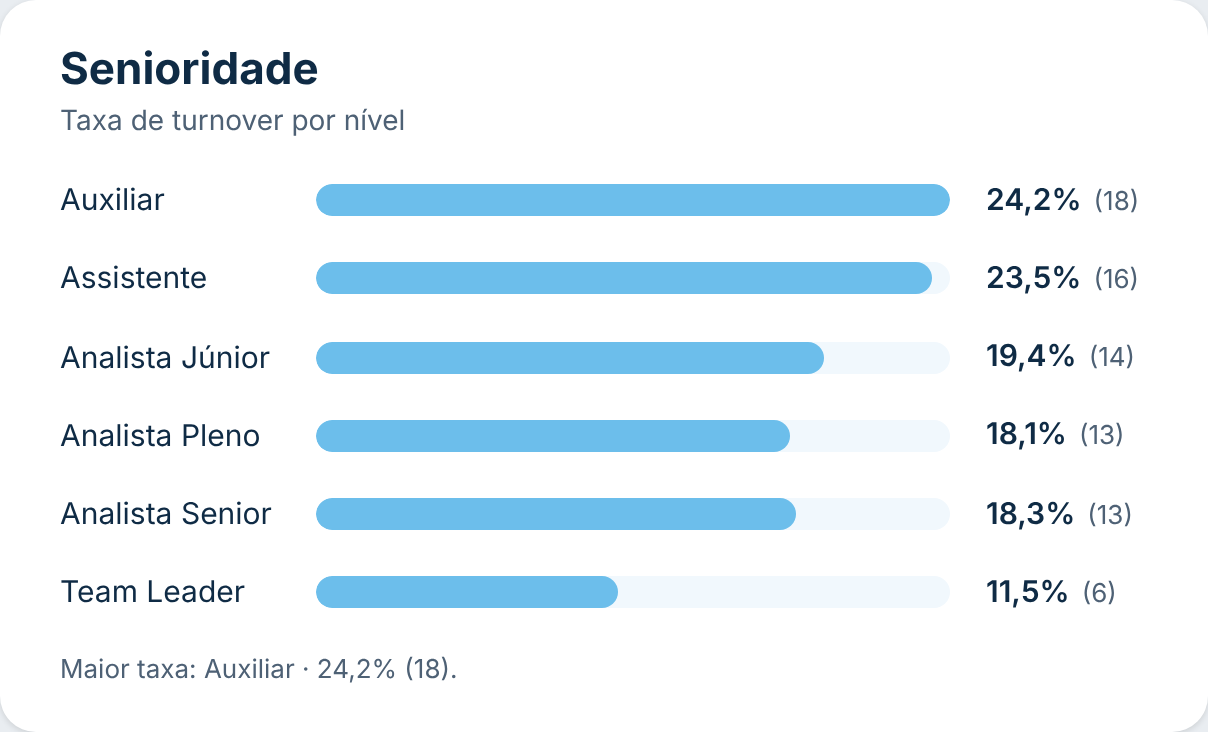
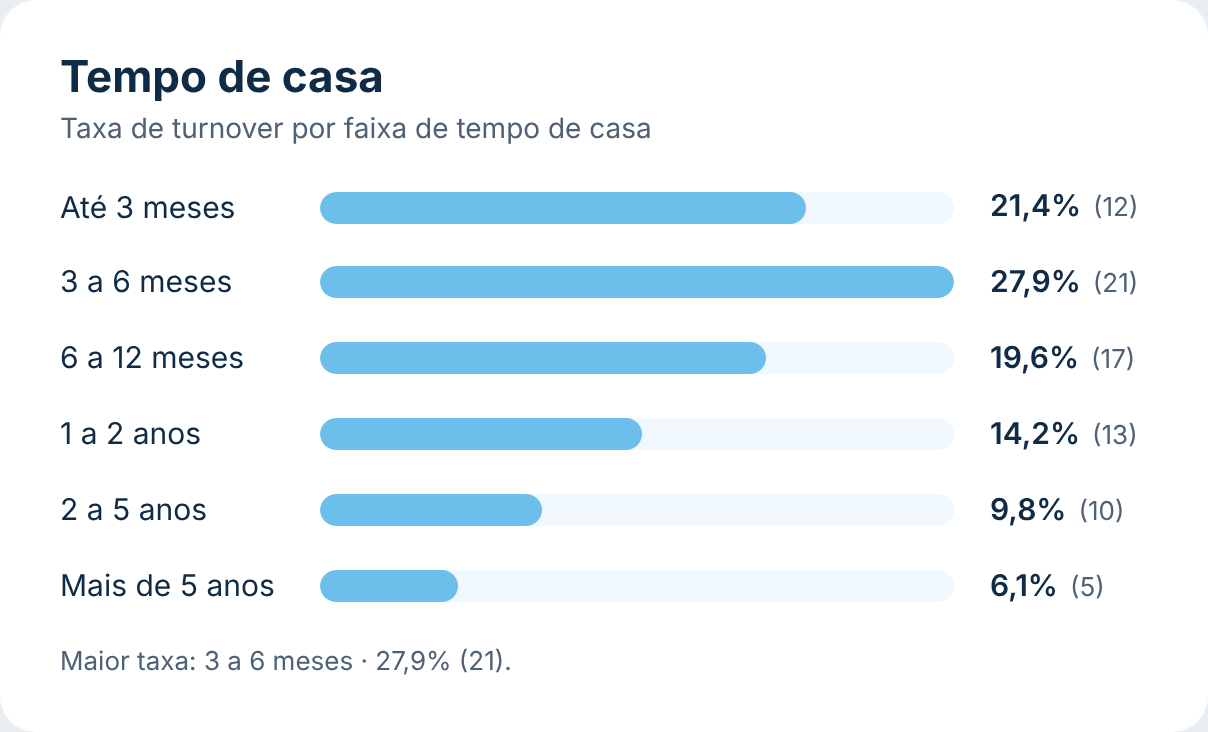
Barras com Insight: troca o exemplo de senioridade por tempo de casa nas imagens
Novas imagens de exemplo (capa, top 3 e fx) com taxa de turnover por
faixa de tempo de casa e números novos; textos do README e do site
atualizados para o novo exemplo.

Claude-Session: https://claude.ai/code/session_013QpUCmtKY2mNhjR5LHkMz1

diff --git a/visuals/barras-ranking/README.md b/visuals/barras-ranking/README.md
@@ -1,8 +1,8 @@
 # Barras com Insight
 
-Gráfico de barras horizontais no estilo de ranking: cada linha tem o **rótulo da categoria**, uma **barra com trilho** e o **valor com um detalhe ao lado** (ex.: `24,2% (18)`). Embaixo aparece uma **frase de insight** automática, como *"Maior taxa: Auxiliar · 24,2% (18)."*. Dá para mostrar só o **top N** e **ordenar por outro campo** (ex.: a ordem dos níveis). Segue o padrão visual do repositório ([DESIGN.md](../../DESIGN.md)).
+Gráfico de barras horizontais no estilo de ranking: cada linha tem o **rótulo da categoria**, uma **barra com trilho** e o **valor com um detalhe ao lado** (ex.: `27,9% (21)`). Embaixo aparece uma **frase de insight** automática, como *"Maior taxa: 3 a 6 meses · 27,9% (21)."*. Dá para mostrar só o **top N** e **ordenar por outro campo** (ex.: a ordem das faixas de tempo de casa). Segue o padrão visual do repositório ([DESIGN.md](../../DESIGN.md)).
 
-| Padrão (ordenado pelo nível) | Top 3 com destaque | Cores por regra (fx) |
+| Padrão (ordenado pela faixa) | Top 3 com destaque | Cores por regra (fx) |
 |---|---|---|
 | ![Padrão](docs/1-padrao.png) | ![Top 3](docs/2-top-destaque.png) | ![fx](docs/3-fx.png) |
 
@@ -10,10 +10,10 @@ Gráfico de barras horizontais no estilo de ranking: cada linha tem o **rótulo 
 
 1. Baixe [`dist/barrasRankingA8588BCCC6D14E3E8FC340A9DF9CD332.1.0.0.0.pbiviz`](dist/) e importe no Power BI (**Visualizações → `…` → Importar um visual de um arquivo**).
 2. Arraste os campos:
-   - **Categoria**: cada valor vira uma barra (ex.: Nível, Cargo).
+   - **Categoria**: cada valor vira uma barra (ex.: Faixa de tempo de casa, Cargo).
    - **Valor**: a medida que define o tamanho da barra (ex.: Taxa de turnover).
-   - **Detalhe** (opcional, até 3): medidas mostradas ao lado do valor (ex.: nº de desligados → `(18)`). Com mais de uma, elas aparecem separadas por `·`.
-   - **Ordenar por** (opcional): campo ou medida usado para ordenar as barras (ex.: *Ordem do nível* = 1, 2, 3…). Para uma coluna de texto, troque a agregação para **Primeiro**.
+   - **Detalhe** (opcional, até 3): medidas mostradas ao lado do valor (ex.: nº de desligados → `(21)`). Com mais de uma, elas aparecem separadas por `·`.
+   - **Ordenar por** (opcional): campo ou medida usado para ordenar as barras (ex.: *Ordem da faixa* = 1, 2, 3…). Para uma coluna de texto, troque a agregação para **Primeiro**.
    - **Dicas de ferramenta** (opcional): medidas extras mostradas ao passar o mouse.
 
 ## Recursos
@@ -22,8 +22,8 @@ Gráfico de barras horizontais no estilo de ranking: cada linha tem o **rótulo 
   - **Automático**: pelo campo *Ordenar por*, se houver; senão, pelo valor;
   - **Valor**, **Campo Ordenar por**, **Categoria (A–Z)** ou **Ordem do Power BI** (respeita a classificação do campo e o menu *Classificar eixo*);
   - **Direção**: automática (valor: maior primeiro; demais: crescente), decrescente ou crescente.
-- **Top N** (**Formatar visual → Top N**): mostra só N barras, escolhidas pelos **maiores valores**, **menores valores** ou **primeiros da ordenação**. As barras escolhidas continuam na ordem configurada (ex.: top 3 por taxa, exibidas na ordem do nível).
-- **Detalhe ao lado do valor**: entre parênteses `(18)`, após um ponto `· 18` ou sem separador, com fonte, tamanho e cor próprios.
+- **Top N** (**Formatar visual → Top N**): mostra só N barras, escolhidas pelos **maiores valores**, **menores valores** ou **primeiros da ordenação**. As barras escolhidas continuam na ordem configurada (ex.: top 3 por taxa, exibidas na ordem das faixas).
+- **Detalhe ao lado do valor**: entre parênteses `(21)`, após um ponto `· 21` ou sem separador, com fonte, tamanho e cor próprios.
 - **Insight** (**Formatar visual → Insight**):
   - liga e desliga a frase;
   - destaca o **maior** ou o **menor** valor;

diff --git a/README.md b/README.md
@@ -13,7 +13,7 @@ Coleção de **visuais personalizados para Power BI**, feitos em TypeScript + HT
 | [**Matriz Estilizada**](visuals/matriz/) | Matriz com linhas, colunas e valores como a nativa, com seções de colunas configuráveis, hierarquia expansível, subtotais e formatação condicional por célula. | [`.pbiviz`](https://zlanchus.github.io/powerbi-custom-visual/downloads/matriz.pbiviz) |
 | [**Pirâmide Segmentada**](visuals/piramide/) | Funil/pirâmide como o nativo, com as barras divididas em segmentos coloridos por um campo de legenda. Tem modo pirâmide espelhada (etária), conectores com taxa de conversão e rótulos de total e %. | [`.pbiviz`](https://zlanchus.github.io/powerbi-custom-visual/downloads/piramide.pbiviz) |
 | [**Card Comparativo**](visuals/card-comparativo/) | Card de KPI com o valor principal em destaque, o período selecionado (medida do calendário) e até 5 comparações com outras medidas (meta, mês anterior, ano anterior), com diferença ou variação %, cores e setas. | [`.pbiviz`](https://zlanchus.github.io/powerbi-custom-visual/downloads/card-comparativo.pbiviz) |
-| [**Barras com Insight**](visuals/barras-ranking/) | Barras horizontais com trilho no estilo de ranking: valor e detalhe ao lado (ex.: 24,2% (18)), top N, ordenação por outro campo (ex.: ordem do nível), cor com fx e frase de insight automática (maior ou menor valor). | [`.pbiviz`](https://zlanchus.github.io/powerbi-custom-visual/downloads/barras-ranking.pbiviz) |
+| [**Barras com Insight**](visuals/barras-ranking/) | Barras horizontais com trilho no estilo de ranking: valor e detalhe ao lado (ex.: 27,9% (21)), top N, ordenação por outro campo (ex.: ordem da faixa de tempo de casa), cor com fx e frase de insight automática (maior ou menor valor). | [`.pbiviz`](https://zlanchus.github.io/powerbi-custom-visual/downloads/barras-ranking.pbiviz) |
 | [**Exportar Página**](visuals/exportar-pagina/) | Botão que exporta a página do relatório para PDF, PNG ou JPG sem configuração do administrador nem certificação: abre a [página de exportação](https://zlanchus.github.io/powerbi-custom-visual/exportar/), que captura a aba do relatório, recorta sozinha só a página do relatório (sem menus e painéis) e gera o arquivo no próprio navegador. PDF com várias páginas, nome e rodapé por medida. | [`.pbiviz`](https://zlanchus.github.io/powerbi-custom-visual/downloads/exportar-pagina.pbiviz) |
 | [**Motivos Expansíveis**](visuals/motivos-expansiveis/) | Motivos principais de uma pesquisa à esquerda e, ao clicar, o detalhamento ao lado, ligado por faixas proporcionais ao valor (ou em acordeão vertical): faixa de composição, % do total e do motivo, pesquisa sem acentos, filtro cruzado por motivo ou detalhamento, insight automático e mais de 190 opções de formatação. | [`.pbiviz`](https://zlanchus.github.io/powerbi-custom-visual/downloads/motivos-expansiveis.pbiviz) |
 | [**Big Number**](visuals/big-number/) | Card com o número em destaque, título editável e até 3 comparações (mês anterior, ano anterior, meta), cada uma com sua unidade de diferença (variação %, absoluta ou pontos percentuais), sentido de "melhor" (para cima ou para baixo), cores e valor anterior opcional. | [`.pbiviz`](https://zlanchus.github.io/powerbi-custom-visual/downloads/big-number.pbiviz) |
